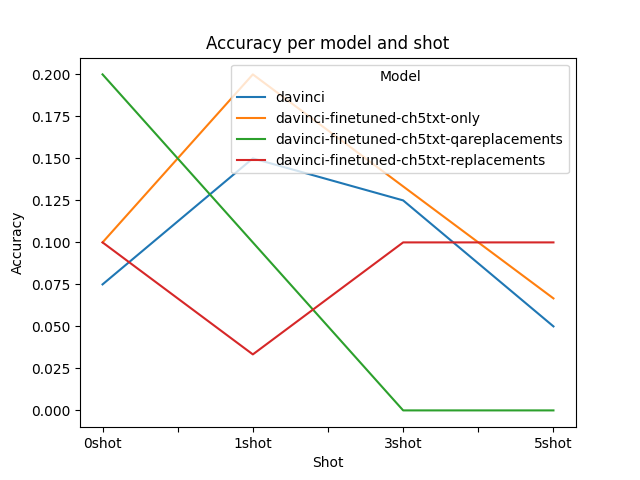
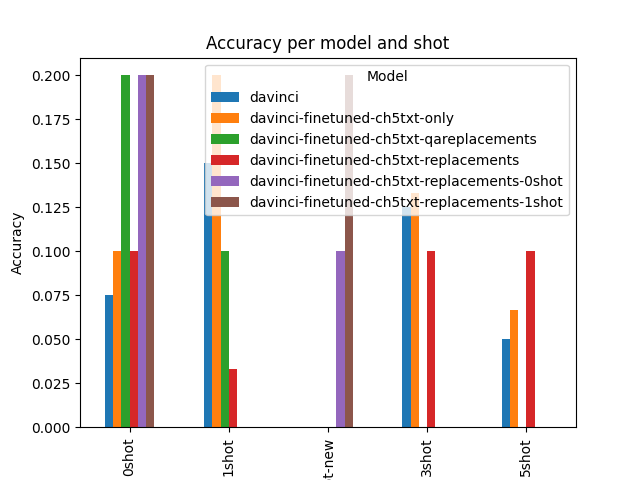
renaming + rerunning results

diff --git a/eval-model-pt3/json_to_csv.py b/eval-model-pt3/json_to_csv.py
@@ -47,7 +47,7 @@ def create_pivot_table(df, index, columns, values):
 
 
 # iterate through all the files in results folder
-directory = 'results-capV-updated'
+directory = 'results-capV'
 data = []
 for filename in os.listdir(directory):
     filePath = os.path.join(directory, filename)
@@ -69,7 +69,7 @@ df = pd.DataFrame(data, columns=["model", "chapter", "style", "quiz_type", "ques
 df['chapter'] = df['chapter'].str.split('_').str[1].map(roman_to_decimal)
 print(df)
 # pivoting to make specific tables
-output_directory = "charts-ch5-0-1-shot/"
+output_directory = "charts-graphs-ch5/"
 # model chapter table
 pivot_df_model_chapter = create_pivot_table(df, 'model', 'chapter', 'accuracy')
 pivot_df_model_chapter.to_csv(output_directory + 'results-model-chapter.csv')
@@ -98,6 +98,6 @@ plt.savefig(output_directory + 'model_style.png')
 # model chapter plot
 pivot_df_shot_chapter = create_pivot_table(df, 'model', 'shot', 'accuracy')
 pivot_df_shot_chapter.to_csv(output_directory + 'results-shot-chapter.csv')
-pivot_df_shot_chapter.T.plot(kind='line').set(xlabel='Shot', ylabel='Accuracy', title='Accuracy per model and shot')
+pivot_df_shot_chapter.T.plot(kind='bar').set(xlabel='Shot', ylabel='Accuracy', title='Accuracy per model and shot')
 plt.legend(title='Model', loc='upper right')
 plt.savefig(output_directory + 'model_chap.png')
